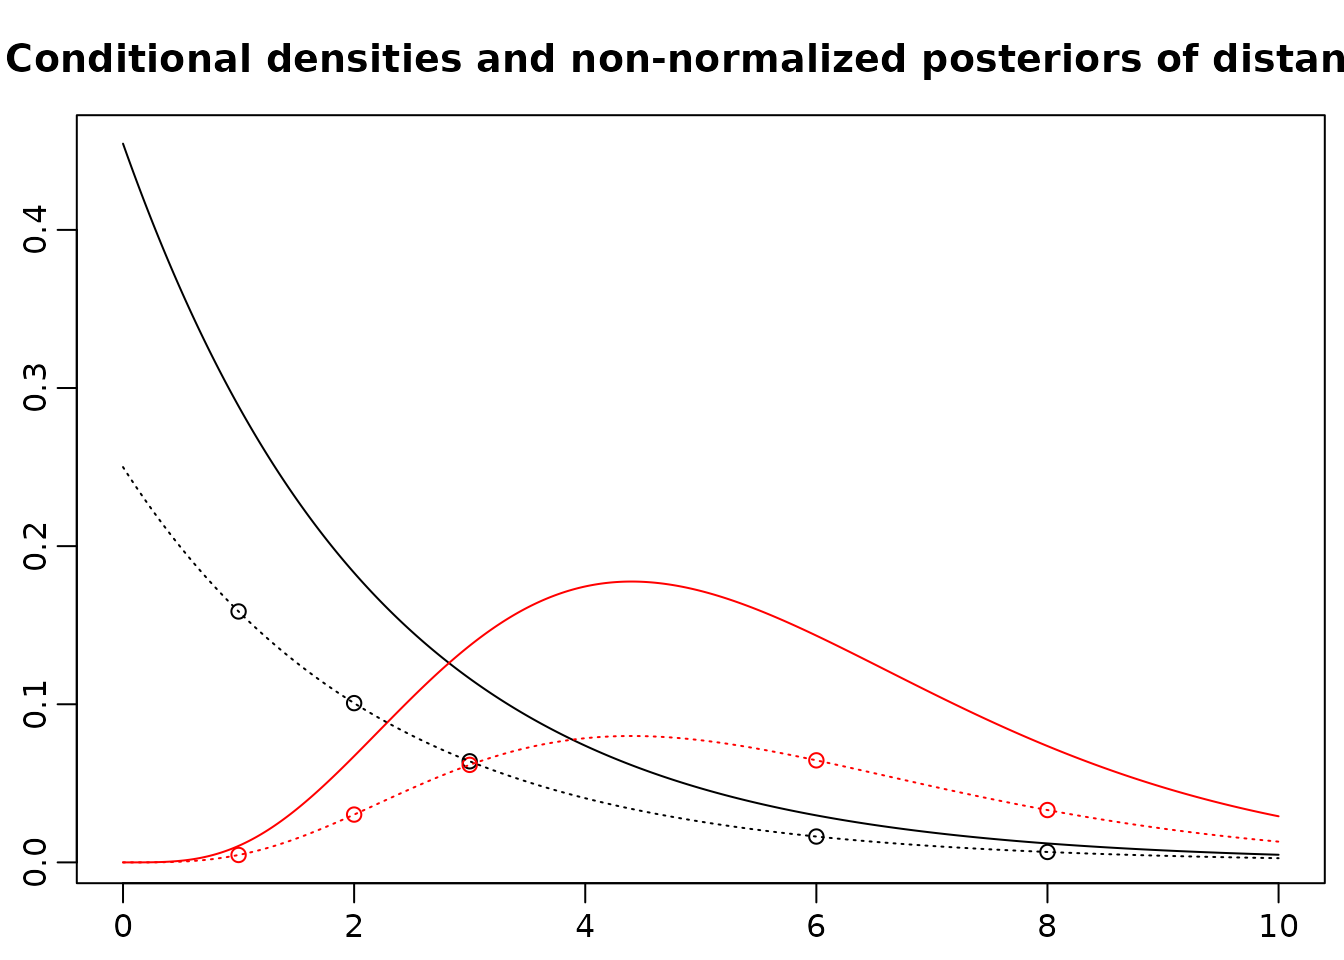
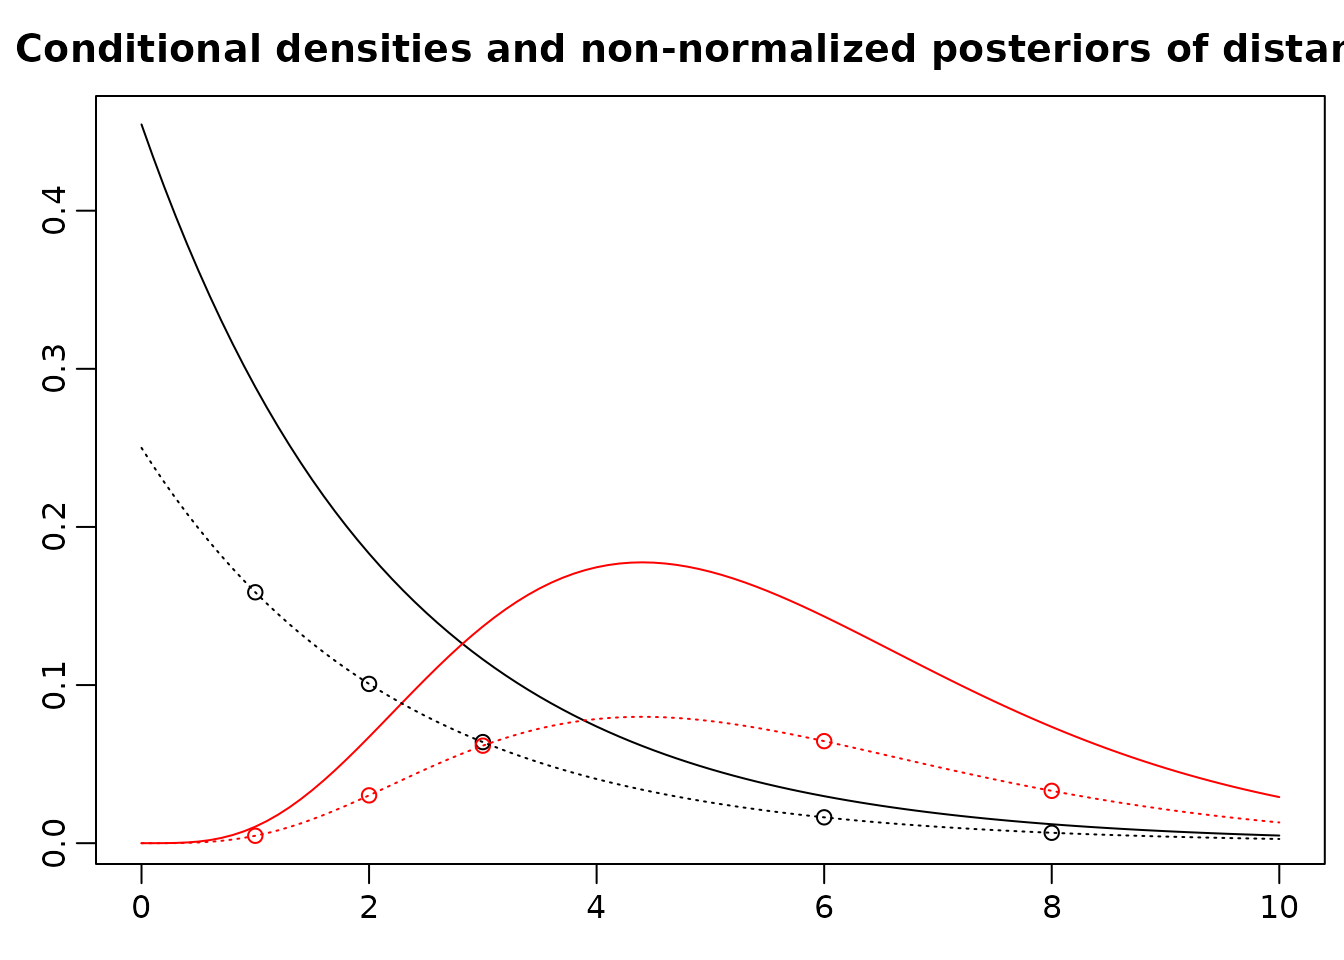
Deploying to gh-pages from @ gregorkastner/BayesianLearningCode@0c7a2212e28d35a7e68755490d69f13d0e4cf466 🚀

diff --git a/articles/Chapter01.html b/articles/Chapter01.html
@@ -161,13 +161,12 @@ and
 <span><span class="va">lambda</span> <span class="op">=</span> <span class="fl">1</span><span class="op">/</span><span class="fl">2.2</span></span>
 <span><span class="va">alpha</span> <span class="op">=</span> <span class="fl">5</span></span>
 <span><span class="va">beta</span> <span class="op">=</span> <span class="fl">5</span><span class="op">/</span><span class="fl">5.5</span></span></code></pre></div>
-<p>First, we visualize the conditional densitites. Then, we compute the
-non-normalized posteriors for
+<p>Then, we compute the non-normalized posteriors for
 <math display="inline" xmlns="http://www.w3.org/1998/Math/MathML"><semantics><mrow><mi>y</mi><mo>∈</mo><mo stretchy="false" form="prefix">{</mo><mn>1</mn><mo>,</mo><mn>2</mn><mo>,</mo><mn>3</mn><mo>,</mo><mn>6</mn><mo>,</mo><mn>8</mn><mo stretchy="false" form="postfix">}</mo></mrow><annotation encoding="application/x-tex">y \in \{1, 2, 3, 6, 8\}</annotation></semantics></math>,
 mark those in the plot, and add lines to visualize the non-normalized
 posteriors.</p>
 <div class="sourceCode" id="cb9"><pre class="downlit sourceCode r">
-<code class="sourceCode R"><span><span class="va">x</span> <span class="op">&lt;-</span> <span class="fu"><a href="https://rdrr.io/r/base/seq.html" class="external-link">seq</a></span><span class="op">(</span><span class="fl">0</span>, <span class="fl">10</span>, <span class="fl">0.01</span><span class="op">)</span></span>
+<code class="sourceCode R"><span><span class="va">x</span> <span class="op">&lt;-</span> <span class="fu"><a href="https://rdrr.io/r/base/seq.html" class="external-link">seq</a></span><span class="op">(</span><span class="fl">0</span>, <span class="fl">10</span>, <span class="fl">0.1</span><span class="op">)</span></span>
 <span><span class="fu"><a href="https://rdrr.io/r/graphics/plot.default.html" class="external-link">plot</a></span><span class="op">(</span><span class="va">x</span>, <span class="fu"><a href="https://rdrr.io/r/stats/Exponential.html" class="external-link">dexp</a></span><span class="op">(</span><span class="va">x</span>, <span class="va">lambda</span><span class="op">)</span>, type <span class="op">=</span> <span class="st">"l"</span>, xlab <span class="op">=</span> <span class="st">""</span>, ylab <span class="op">=</span> <span class="st">""</span><span class="op">)</span></span>
 <span><span class="fu"><a href="https://rdrr.io/r/graphics/title.html" class="external-link">title</a></span><span class="op">(</span><span class="st">"Conditional densities and non-normalized posteriors of distance"</span><span class="op">)</span></span>
 <span><span class="fu"><a href="https://rdrr.io/r/graphics/lines.html" class="external-link">lines</a></span><span class="op">(</span><span class="va">x</span>, <span class="fu"><a href="https://rdrr.io/r/stats/GammaDist.html" class="external-link">dgamma</a></span><span class="op">(</span><span class="va">x</span>, <span class="va">alpha</span>, <span class="va">beta</span><span class="op">)</span>, col <span class="op">=</span> <span class="st">"red"</span><span class="op">)</span></span>
@@ -179,8 +178,11 @@ posteriors.</p>
 <span><span class="fu"><a href="https://rdrr.io/r/graphics/points.html" class="external-link">points</a></span><span class="op">(</span><span class="va">y</span>, <span class="va">theta1_y</span><span class="op">)</span></span>
 <span><span class="fu"><a href="https://rdrr.io/r/graphics/points.html" class="external-link">points</a></span><span class="op">(</span><span class="va">y</span>, <span class="va">theta0_y</span>, col <span class="op">=</span> <span class="st">"red"</span><span class="op">)</span></span>
 <span></span>
-<span><span class="fu"><a href="https://rdrr.io/r/graphics/lines.html" class="external-link">lines</a></span><span class="op">(</span><span class="va">x</span>,  <span class="fu"><a href="https://rdrr.io/r/stats/Exponential.html" class="external-link">dexp</a></span><span class="op">(</span><span class="va">x</span>, <span class="va">lambda</span><span class="op">)</span> <span class="op">*</span> <span class="va">Prtheta</span>, lty <span class="op">=</span> <span class="fl">3</span><span class="op">)</span></span>
-<span><span class="fu"><a href="https://rdrr.io/r/graphics/lines.html" class="external-link">lines</a></span><span class="op">(</span><span class="va">x</span>,  <span class="fu"><a href="https://rdrr.io/r/stats/GammaDist.html" class="external-link">dgamma</a></span><span class="op">(</span><span class="va">x</span>, <span class="va">alpha</span>, <span class="va">beta</span><span class="op">)</span> <span class="op">*</span> <span class="op">(</span><span class="fl">1</span> <span class="op">-</span> <span class="va">Prtheta</span><span class="op">)</span>, lty <span class="op">=</span> <span class="fl">3</span>, col <span class="op">=</span> <span class="st">"red"</span><span class="op">)</span></span></code></pre></div>
+<span><span class="va">theta1_y_morepoints</span> <span class="op">&lt;-</span> <span class="fu"><a href="https://rdrr.io/r/stats/Exponential.html" class="external-link">dexp</a></span><span class="op">(</span><span class="va">x</span>, <span class="va">lambda</span><span class="op">)</span> <span class="op">*</span> <span class="va">Prtheta</span></span>
+<span><span class="va">theta0_y_morepoints</span> <span class="op">&lt;-</span> <span class="fu"><a href="https://rdrr.io/r/stats/GammaDist.html" class="external-link">dgamma</a></span><span class="op">(</span><span class="va">x</span>, <span class="va">alpha</span>, <span class="va">beta</span><span class="op">)</span> <span class="op">*</span> <span class="op">(</span><span class="fl">1</span> <span class="op">-</span> <span class="va">Prtheta</span><span class="op">)</span></span>
+<span></span>
+<span><span class="fu"><a href="https://rdrr.io/r/graphics/lines.html" class="external-link">lines</a></span><span class="op">(</span><span class="va">x</span>,  <span class="va">theta1_y_morepoints</span>, lty <span class="op">=</span> <span class="fl">3</span><span class="op">)</span></span>
+<span><span class="fu"><a href="https://rdrr.io/r/graphics/lines.html" class="external-link">lines</a></span><span class="op">(</span><span class="va">x</span>,  <span class="va">theta0_y_morepoints</span>, lty <span class="op">=</span> <span class="fl">3</span>, col <span class="op">=</span> <span class="st">"red"</span><span class="op">)</span></span></code></pre></div>
 <p><img src="Chapter01_files/figure-html/unnamed-chunk-11-1.png" width="672"></p>
 <p>Finally, here are the posterior probabilities. Note that each ratio
 of the pairs of corresponding posterior probabilities is the same as
@@ -191,11 +193,18 @@ graph.</p>
 <span><span class="va">male</span> <span class="op">&lt;-</span> <span class="va">theta0_y</span> <span class="op">/</span> <span class="op">(</span><span class="va">theta0_y</span> <span class="op">+</span> <span class="va">theta1_y</span><span class="op">)</span></span>
 <span><span class="va">res</span> <span class="op">&lt;-</span> <span class="fu"><a href="https://rdrr.io/r/base/cbind.html" class="external-link">rbind</a></span><span class="op">(</span><span class="va">female</span>, <span class="va">male</span><span class="op">)</span></span>
 <span><span class="fu"><a href="https://rdrr.io/r/base/colnames.html" class="external-link">colnames</a></span><span class="op">(</span><span class="va">res</span><span class="op">)</span> <span class="op">&lt;-</span> <span class="va">y</span></span>
-<span><span class="fu"><a href="https://rdrr.io/r/base/colnames.html" class="external-link">rownames</a></span><span class="op">(</span><span class="va">res</span><span class="op">)</span> <span class="op">&lt;-</span> <span class="fu"><a href="https://rdrr.io/r/base/c.html" class="external-link">c</a></span><span class="op">(</span><span class="st">"female"</span>, <span class="st">"male"</span><span class="op">)</span></span>
 <span><span class="fu"><a href="https://rdrr.io/r/base/Round.html" class="external-link">round</a></span><span class="op">(</span><span class="va">res</span>, <span class="fl">3</span><span class="op">)</span></span>
 <span><span class="co">#&gt;            1     2     3     6     8</span></span>
 <span><span class="co">#&gt; female 0.971 0.769 0.509 0.202 0.166</span></span>
 <span><span class="co">#&gt; male   0.029 0.231 0.491 0.798 0.834</span></span></code></pre></div>
+<p>Visualized.</p>
+<div class="sourceCode" id="cb11"><pre class="downlit sourceCode r">
+<code class="sourceCode R"><span><span class="va">female_morepoints</span> <span class="op">&lt;-</span> <span class="va">theta1_y_morepoints</span> <span class="op">/</span> <span class="op">(</span><span class="va">theta0_y_morepoints</span> <span class="op">+</span> <span class="va">theta1_y_morepoints</span><span class="op">)</span></span>
+<span><span class="va">male_morepoints</span> <span class="op">&lt;-</span> <span class="va">theta0_y_morepoints</span> <span class="op">/</span> <span class="op">(</span><span class="va">theta0_y_morepoints</span> <span class="op">+</span> <span class="va">theta1_y_morepoints</span><span class="op">)</span></span>
+<span><span class="va">res</span> <span class="op">&lt;-</span> <span class="fu"><a href="https://rdrr.io/r/base/cbind.html" class="external-link">rbind</a></span><span class="op">(</span><span class="va">female_morepoints</span>, <span class="va">male_morepoints</span><span class="op">)</span></span>
+<span><span class="fu"><a href="https://rdrr.io/r/base/colnames.html" class="external-link">colnames</a></span><span class="op">(</span><span class="va">res</span><span class="op">)</span> <span class="op">&lt;-</span> <span class="va">x</span></span>
+<span><span class="fu"><a href="https://rdrr.io/r/graphics/barplot.html" class="external-link">barplot</a></span><span class="op">(</span><span class="va">res</span>, main <span class="op">=</span> <span class="st">"Posterior probabilities of female/male"</span>, col <span class="op">=</span> <span class="fu"><a href="https://rdrr.io/r/base/c.html" class="external-link">c</a></span><span class="op">(</span><span class="st">"black"</span>, <span class="st">"red"</span><span class="op">)</span><span class="op">)</span></span></code></pre></div>
+<p><img src="Chapter01_files/figure-html/unnamed-chunk-13-1.png" width="672"></p>
 </div>
 </div>
   </main><aside class="col-md-3"><nav id="toc" aria-label="Table of contents"><h2>On this page</h2>
